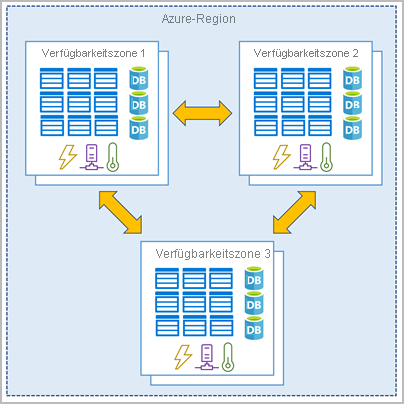
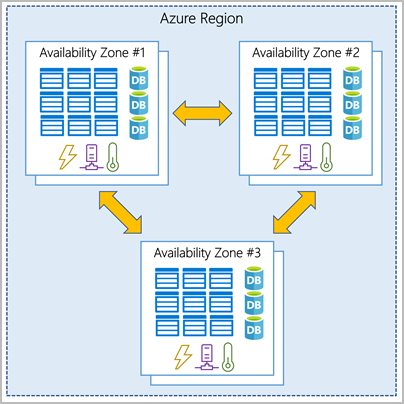
Dokumentation plus Formatierung

diff --git a/2_Hauptteil/Grundlegendes_zu_Azure-Speicherdiensten.md b/2_Hauptteil/Grundlegendes_zu_Azure-Speicherdiensten.md
@@ -32,11 +32,11 @@ Diese Tabelle beschreibt diese Optionen noch etwas mehr:
 
 ### Redundancy in the primary region
 
-Daten in einem Azure Storage-Konto werden immer dreimal in der primären Region repliziert. Azure Storage bietet mit dem *locally redundant storage* (LRS) und dem *zone-redundant storage* (ZRS) zwei Optionen für die Replikation der Daten in der primären Region an.
+Daten in einem Azure Storage-Konto werden immer dreimal in der primären Region repliziert. Azure Storage bietet mit dem *locally redundant storage* (LRS) und dem *zone-redundant storage* (ZRS) zwei Optionen für die Replikation der Daten in der *primary region* an.
 
 #### Locally redundant storage
 
-Bei der *locally redundant storage* (LRS) werden die Daten in einem einzelnen Rechenzentrum in der *primary region* repliziert. Dies ist die kostengünstigste Redundanzoption und bietet im Vergleich zu den anderen Optionen die geringste Dauerhaftigkeit. Jedoch ist besteht grosse Gefahr, dass bei einer Naturkatastrophe und Ausfall des gesamten RZ's, die ganzen Daten inkl. Replikationen verloren gehen.
+Bei der *locally redundant storage* (LRS) werden die Daten in einem einzelnen Rechenzentrum in der *primary region* repliziert. Dies ist die kostengünstigste Redundanzoption und bietet im Vergleich zu den anderen Optionen die geringste Dauerhaftigkeit, diese beträgt mindestens elf Neunen -> 99,999999999% für Azure Storage-Datenobjekte in einem Zeitraum von einem Jahr. Es besteht jedoch grosse Gefahr, dass bei einer Naturkatastrophe und Ausfall des gesamten RZ's, die ganzen Daten inkl. Replikationen verloren gehen.
 
 Zur Veranschaulichung noch folgendes Bild
 
@@ -46,8 +46,12 @@ Zur Veranschaulichung noch folgendes Bild
 
 #### Zone-redundant storage
 
+Bei Availability Zone-verfügbaren Region's repliziert der *zone-redundant storage* (ZRS) die Azure Storage-Daten synchron in drei Azure Availability Zone's in der *primary region*. Der ZRS bietet somit eine Dauerhaftigkeit von mindestens zwölf Neunen -> 99,9999999999 % für Azure Storage-Datenobjekte in einem Zeitraum von einem Jahr an. Durch ZRS kann bei einem Ausfall von einer Availability Zone weiterhin mit Lese- und Schreibvoränge zugegriffen werden.
 
+Zur Veranschaulichung noch folgendes Bild
+![Zone redunancy](../ressources/zone-redundant-storage.png)
 
+[Quelle](../4_Anhang/Quellenangabe.md#Zone-redundancy)
 
 ## Inhaltsverzeichnis
 

diff --git a/4_Anhang/Quellenangabe.md b/4_Anhang/Quellenangabe.md
@@ -1,19 +1,22 @@
 ## Bilder
 
 ### IaaS,PaaS und SaaS (Shared Responsibility Model)
-[Beschreiben des Shared Responsibility-Modells - Training | Microsoft Learn](https://learn.microsoft.com/de-de/training/modules/describe-cloud-compute/4-describe-shared-responsibility-model)
+[learn.microsoft.com/de-de/training/wwl-azure/describe-cloud-compute/media/shared-responsibility-b3829bfe.svg](https://learn.microsoft.com/de-de/training/wwl-azure/describe-cloud-compute/media/shared-responsibility-b3829bfe.svg)
 
 ### Availability-Zone
-[Beschreiben der physischen Infrastruktur von Azure - Training | Microsoft Learn](https://learn.microsoft.com/de-de/training/modules/describe-core-architectural-components-of-azure/5-describe-azure-physical-infrastructure)
+[availability-zones-c22f95a3.png (404×404) (microsoft.com)](https://learn.microsoft.com/en-us/training/wwl-azure/describe-core-architectural-components-of-azure/media/availability-zones-c22f95a3.png)
 
 ### Region Pairs
-https://learn.microsoft.com/de-de/training/modules/describe-core-architectural-components-of-azure/5-describe-azure-physical-infrastructure
+[region-pairs-7c495a33.png (1012×560) (microsoft.com)](https://learn.microsoft.com/en-us/training/wwl-azure/describe-core-architectural-components-of-azure/media/region-pairs-7c495a33.png)
 
 ### Azure-Container
-[Docker vs Virtual Machines (VMs) : A Practical Guide to Docker Containers and VMs (weave.works)](https://www.weave.works/blog/a-practical-guide-to-choosing-between-docker-containers-and-vms)
+[containers-vs-virtual-machines.jpg (1920×972) (contentstack.io)](https://images.contentstack.io/v3/assets/blt300387d93dabf50e/bltb6200bc085503718/5e1f209a63d1b6503160c6d5/containers-vs-virtual-machines.jpg)
 
 ### Locally redundancy
-[Describe Azure storage redundancy - Training | Microsoft Learn](https://learn.microsoft.com/en-us/training/modules/describe-azure-storage-services/3-redundancy)
+[locally-redundant-storage-37247957.png (273×285) (microsoft.com)](https://learn.microsoft.com/en-us/training/wwl-azure/describe-azure-storage-services/media/locally-redundant-storage-37247957.png)
+
+### Zone redundancy
+[zone-redundant-storage-6dd46d22.png (503×501) (microsoft.com)](https://learn.microsoft.com/en-us/training/wwl-azure/describe-azure-storage-services/media/zone-redundant-storage-6dd46d22.png)
 
 ## Links zu diversem
 
